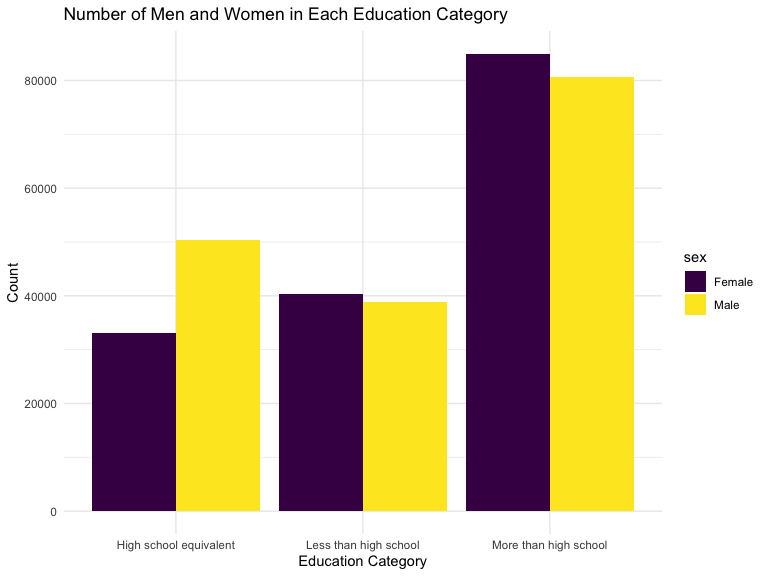
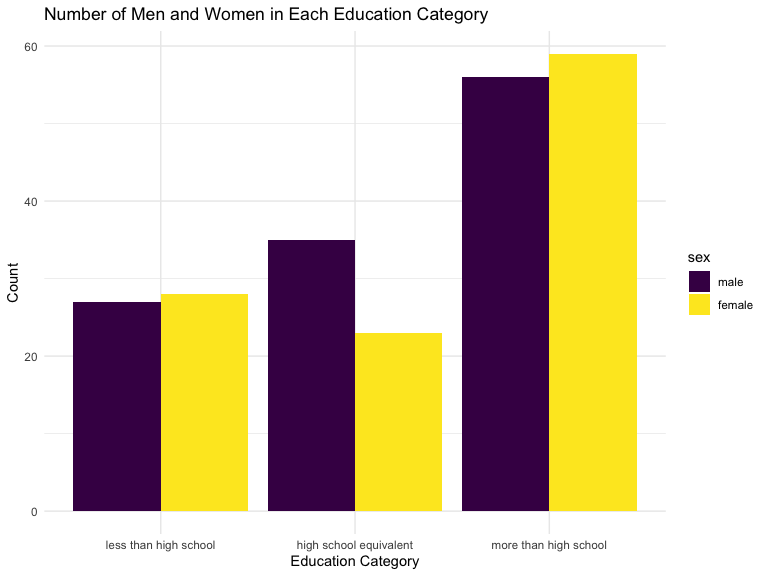
fixing join for accel and demographics to not include pivot longer and fixing plots accordingly

diff --git a/p8105_hw3_vsm2118.md b/p8105_hw3_vsm2118.md
@@ -321,7 +321,7 @@ custom_colors <- c("NY - Bronx County" = "black", "NY - Erie County" = "blue", "
 
 # Create the scatter plot for 2006 and 2010 and facet by year
 plot_combined <- ggplot(ny_data, aes(x = response, y = data_value, color = locationdesc)) +
-  geom_point(size = 3, alpha = 0.6, position = position_jitter(w = 0.2, h = 0)) +  # Adjust size and jitter
+  geom_point(size = 3, alpha = 0.6, position = position_jitter(w = 0.2, h = 0)) +   
   scale_color_manual(values = custom_colors) +  # Use the custom color palette
   labs(title = "Distribution of Data Value by Location in New York State",
        x = "Response",
@@ -352,41 +352,37 @@ demographics <- read.csv("nhanes_covar.csv", skip = 4)
 view(demographics)
 
 # Load accelerometer data
-accelerometer <- read.csv("nhanes_accel.csv")
+accelerometer <- read.csv("nhanes_accel.csv") %>% 
+  janitor::clean_names()
 view(accelerometer)
 
 # Tidy demographic data
-demographics <- demographics %>%
+demographics_clean <- demographics %>%
   janitor::clean_names() %>%
   drop_na() %>%
   filter(age >= 21) %>%
   mutate(education = case_when(
-    education == 1 ~ "Less than high school",
-    education == 2 ~ "High school equivalent",
-    education == 3 ~ "More than high school"
+    education == 1 ~ "less than high school",
+    education == 2 ~ "high school equivalent",
+    education == 3 ~ "more than high school"
   ),
   sex = case_when(
-    sex == 1 ~ "Male",
-    sex == 2 ~ "Female"
+    sex == 1 ~ "male",
+    sex == 2 ~ "female"
   ))
 view(demographics)
 
-# Tidy accelerometer data -- FIX THIS !!!
-reshaped_accelerometer <- accelerometer %>%
-  janitor::clean_names() %>% 
-  pivot_longer(
-    cols = starts_with("min"),
-    names_to = "minute",
-    values_to = "activity_level"
-  ) %>%
-  mutate(minute = as.integer(gsub("min", "", minute)))
+# Tidy accelerometer data and inner join
+ joined_data = 
+  accelerometer %>% 
+  inner_join(demographics_clean, by = "seqn") %>% 
+  relocate(seqn, sex, age, bmi, education) %>% 
+  filter(age >= 21) %>% 
+  mutate(
+    sex = forcats::fct_relevel(sex, "male", "female"),
+    education = forcats::fct_relevel(education, "less than high school", "high school equivalent", "more than high school"))
 
-
-# Merge the reshaped accelerometer data with the demographics dataset using SEQN
-merged_data <- demographics %>%
-  inner_join(reshaped_accelerometer, by = "seqn")
-
-view(merged_data)
+View(joined_data)
 ```
 
 Table for the number of men and women in each education category, and a
@@ -395,7 +391,7 @@ categories:
 
 ``` r
 # Create sex v education table
-education_summary <- merged_data %>%
+education_summary <- joined_data %>%
   group_by(education, sex) %>%
   summarize(
     count = n()
@@ -405,6 +401,21 @@ education_summary <- merged_data %>%
 
     ## `summarise()` has grouped output by 'education'. You can override using the
     ## `.groups` argument.
+
+``` r
+knitr::kable(education_summary, caption =  "Number of Men and Women in each Education Category", format = "markdown")
+```
+
+| education              | sex    | count |
+|:-----------------------|:-------|------:|
+| less than high school  | male   |    27 |
+| less than high school  | female |    28 |
+| high school equivalent | male   |    35 |
+| high school equivalent | female |    23 |
+| more than high school  | male   |    56 |
+| more than high school  | female |    59 |
+
+Number of Men and Women in each Education Category
 
 ``` r
 # Bar chart depicting table 
@@ -419,7 +430,7 @@ education_summary %>%
 
 ``` r
 # Create a histogram for age distributions by gender and education category
-age_distribution_plot <- merged_data %>%
+age_distribution_plot <- joined_data %>%
   ggplot(aes(x = age, fill = sex)) +
   geom_histogram(binwidth = 5, position = "dodge") +
   facet_grid(sex ~ education) +
@@ -432,13 +443,13 @@ education_summary
 
     ## # A tibble: 6 × 3
     ##   education              sex    count
-    ##   <chr>                  <chr>  <int>
-    ## 1 High school equivalent Female 33120
-    ## 2 High school equivalent Male   50400
-    ## 3 Less than high school  Female 40320
-    ## 4 Less than high school  Male   38880
-    ## 5 More than high school  Female 84960
-    ## 6 More than high school  Male   80640
+    ##   <fct>                  <fct>  <int>
+    ## 1 less than high school  male      27
+    ## 2 less than high school  female    28
+    ## 3 high school equivalent male      35
+    ## 4 high school equivalent female    23
+    ## 5 more than high school  male      56
+    ## 6 more than high school  female    59
 
 ``` r
 age_distribution_plot
@@ -450,18 +461,15 @@ age_distribution_plot
 Plot of total activity by age, sex, and education level:
 
 ``` r
-# Aggregate total activity for each participant
-total_activity <- merged_data %>%
-  group_by(seqn, age, sex, education) %>%
-  summarise(total_activity = sum(activity_level))
-```
-
-    ## `summarise()` has grouped output by 'seqn', 'age', 'sex'. You can override
-    ## using the `.groups` argument.
-
-``` r
+activity_total =
+  joined_data %>% 
+  rowwise() %>% 
+  mutate(
+    total_activity = sum(c_across(min1:min1440)) %>% 
+    as.numeric())
+        
 # Plot total activity by age, gender, and education level
-total_activity <- ggplot(total_activity, aes(x = age, y = total_activity)) +
+total_activity_plot <- ggplot(activity_total, aes(x = age, y = total_activity)) +
   geom_point(aes(color = sex)) +
   facet_wrap(~education) +
   geom_smooth(method = "lm", se = FALSE, color = "black") +
@@ -471,7 +479,7 @@ total_activity <- ggplot(total_activity, aes(x = age, y = total_activity)) +
        color = "Gender") +
   theme_minimal()
 
-total_activity
+total_activity_plot
 ```
 
     ## `geom_smooth()` using formula = 'y ~ x'
@@ -483,32 +491,53 @@ Three-panel plot that shows the 24-hour activity time courses for each
 education level and by sex:
 
 ``` r
-# Aggregate the data to an hourly level
-hourly_data <- merged_data %>%
-  group_by(education, sex, hour = minute %/% 60) %>%
-  summarize(activity_level = mean(activity_level)) 
+# Reshape the data into long format
+hourly_data <- joined_data %>%
+  pivot_longer(cols = starts_with("min"), names_to = "minute", values_to = "activity") %>%
+  mutate(
+    minute = as.numeric(gsub("min", "", minute)),  # Extract minute number
+    hour = (minute - 1) %/% 60  # Calculate the hour
+  ) %>%
+  group_by(education, sex, hour) %>%
+  summarize(mean_activity = mean(activity)) %>%
+  ungroup()
 ```
 
     ## `summarise()` has grouped output by 'education', 'sex'. You can override using
     ## the `.groups` argument.
 
 ``` r
-# Create the 24-hour activity time course plot
-activity_plot <- hourly_data %>%
-  ggplot(aes(x = hour, y = activity_level, color = sex)) +
+# Create the three-panel plot
+hourly_data %>%
+  ggplot(aes(x = hour, y = mean_activity, color = sex)) +
   geom_line() +
-  facet_wrap(~education) +  # 3 panels, one for each education level
-  labs(title = "24-Hour Activity Time Courses by Education Level",
-       x = "Hour of the Day",
-       y = "Activity Level",
-       color = "Gender") +
-  scale_x_continuous(breaks = 0:24) +  # Set breaks for 0 to 24 (military time)
-  theme_minimal() +
-  theme(legend.position = "bottom",
-        axis.text.x = element_text(size = 8))
-
-activity_plot
+  geom_smooth(method = "lm", se = FALSE, size = 1) +  
+  facet_wrap(~education, scales = "free") +
+  labs(x = "Hour of the Day", y = "Mean Activity Level") +
+  theme_minimal()
 ```
 
+    ## `geom_smooth()` using formula = 'y ~ x'
+
 <img src="p8105_hw3_vsm2118_files/figure-gfm/unnamed-chunk-13-1.png" width="90%" />
+
+``` r
+hourly_data
+```
+
+    ## # A tibble: 144 × 4
+    ##    education             sex    hour mean_activity
+    ##    <fct>                 <fct> <dbl>         <dbl>
+    ##  1 less than high school male      0          4.29
+    ##  2 less than high school male      1          3.45
+    ##  3 less than high school male      2          2.46
+    ##  4 less than high school male      3          2.07
+    ##  5 less than high school male      4          1.94
+    ##  6 less than high school male      5          4.03
+    ##  7 less than high school male      6          5.83
+    ##  8 less than high school male      7          9.59
+    ##  9 less than high school male      8         12.6 
+    ## 10 less than high school male      9         13.4 
+    ## # ℹ 134 more rows
+
 – COMMENT on results
